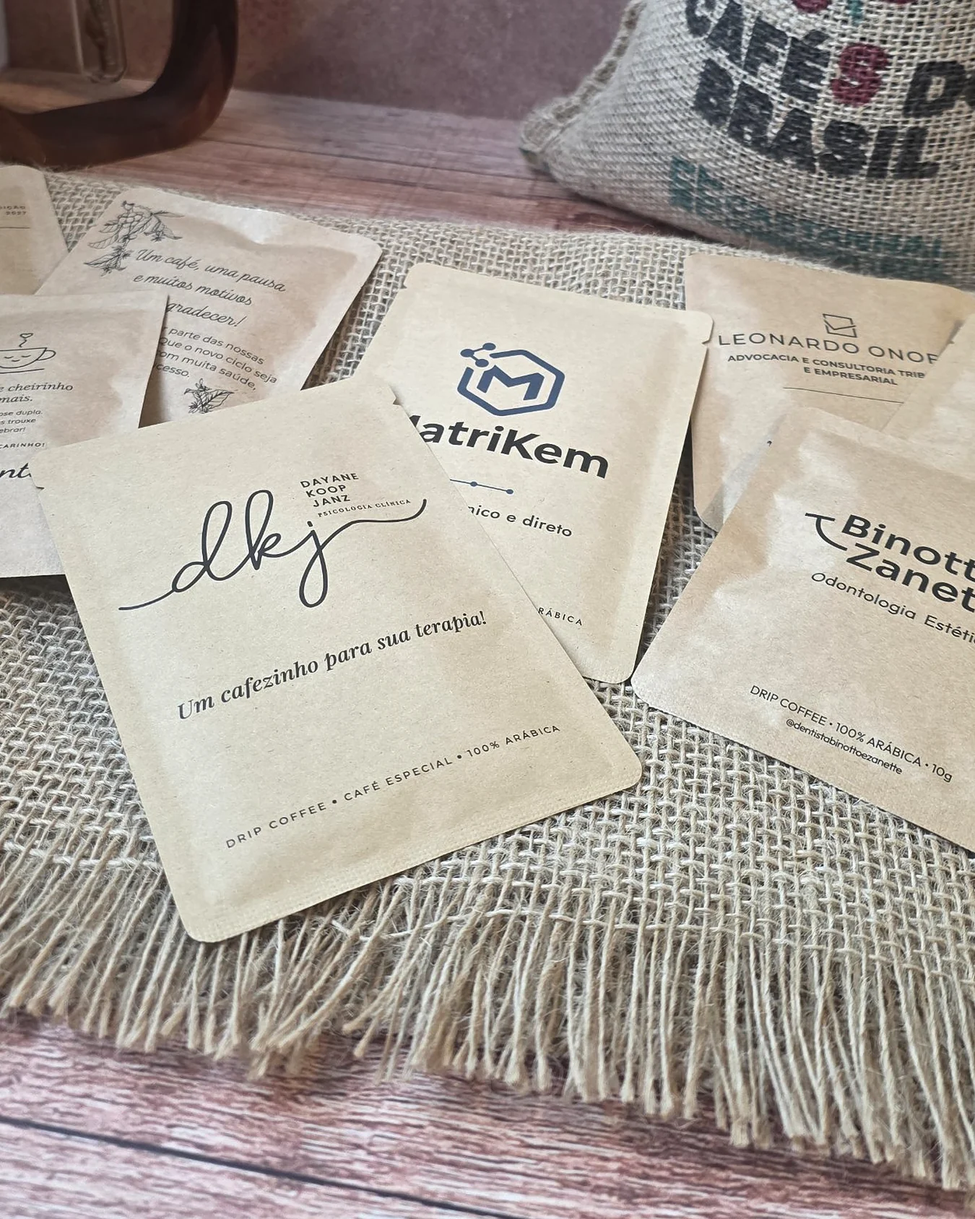
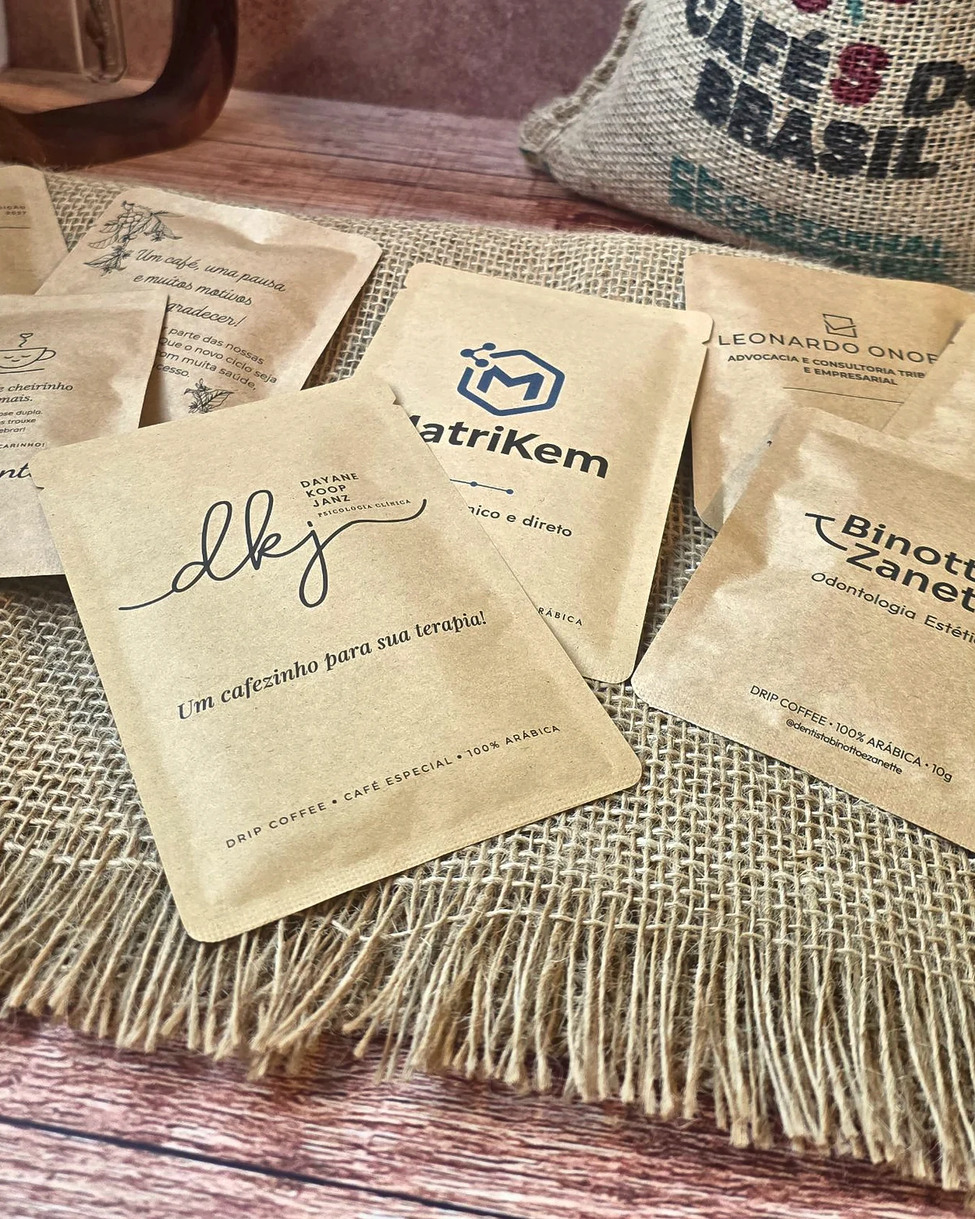
Topo: mais vida na foto (calor, vibração e contraste local)
Claude-Session: https://claude.ai/code/session_01PZPQz7mQiosWU6tmznDoXY

diff --git a/index.html b/index.html
@@ -839,7 +839,7 @@ fbq('track','PageView');
     <div class="ctas"><a class="btn btn-branco" href="#modelos">Ver modelos e preços</a></div>
     <p class="quem">Já servem o próprio drip: <b>Unimed, Termolar, Uniprime e Brastelha</b></p>
   </div>
-  <figure class="capa-foto"><picture><source media="(max-width:899px)" srcset="assets/img/capa-drips-clientes-m.webp"><img src="assets/img/capa-drips-clientes.webp?v=3" alt="Drips reais sobre a mesa: DKJ Psicologia, MatriKem e um sachê de agradecimento" width="1350" height="1688" fetchpriority="high"></picture></figure>
+  <figure class="capa-foto"><picture><source media="(max-width:899px)" srcset="assets/img/capa-drips-clientes-m.webp?v=2"><img src="assets/img/capa-drips-clientes.webp?v=4" alt="Drips reais sobre a mesa: DKJ Psicologia, MatriKem e um sachê de agradecimento" width="1350" height="1688" fetchpriority="high"></picture></figure>
 </section>
 <div class="fatos"><ul class="wrap">
   <li><b>Impresso direto no sachê</b><span>Sem etiqueta colada</span></li>
